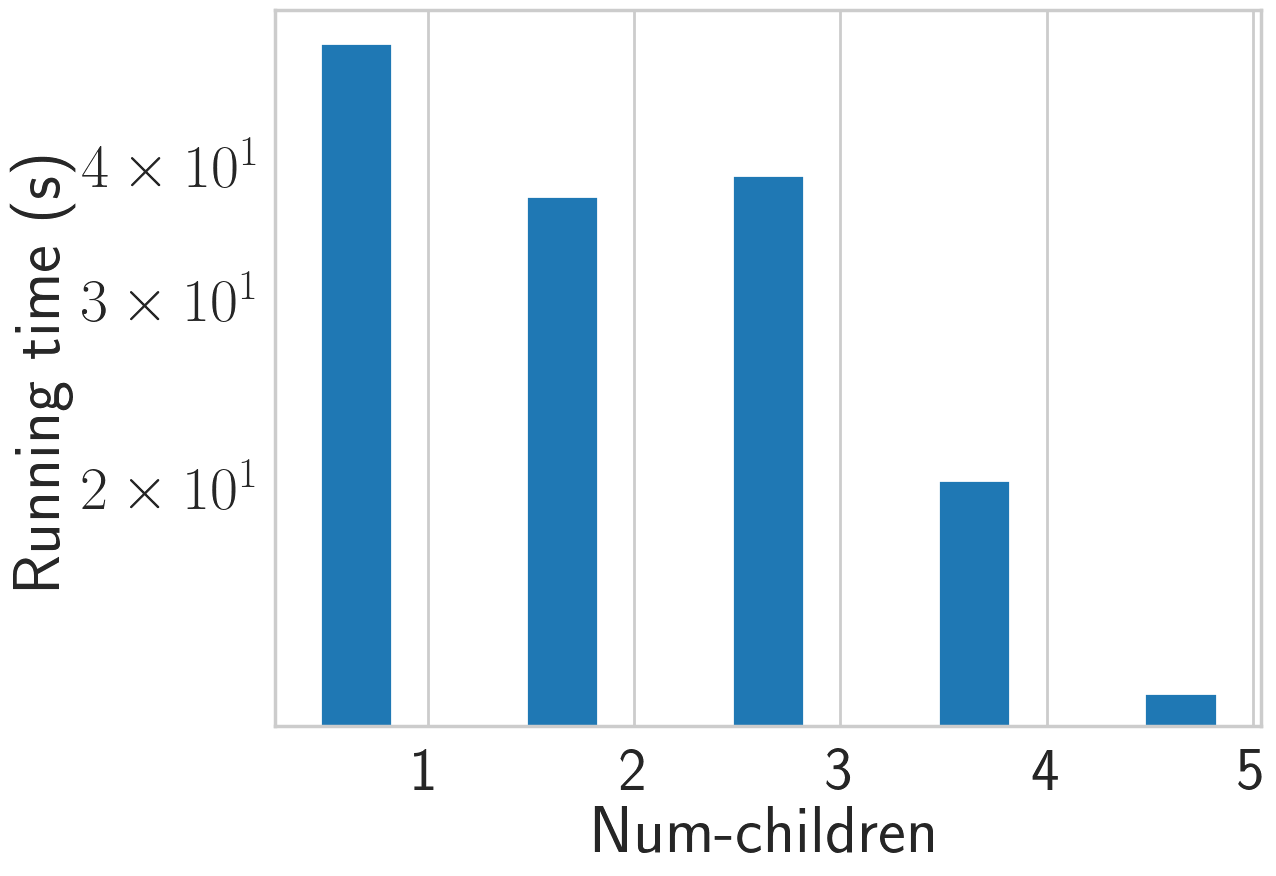
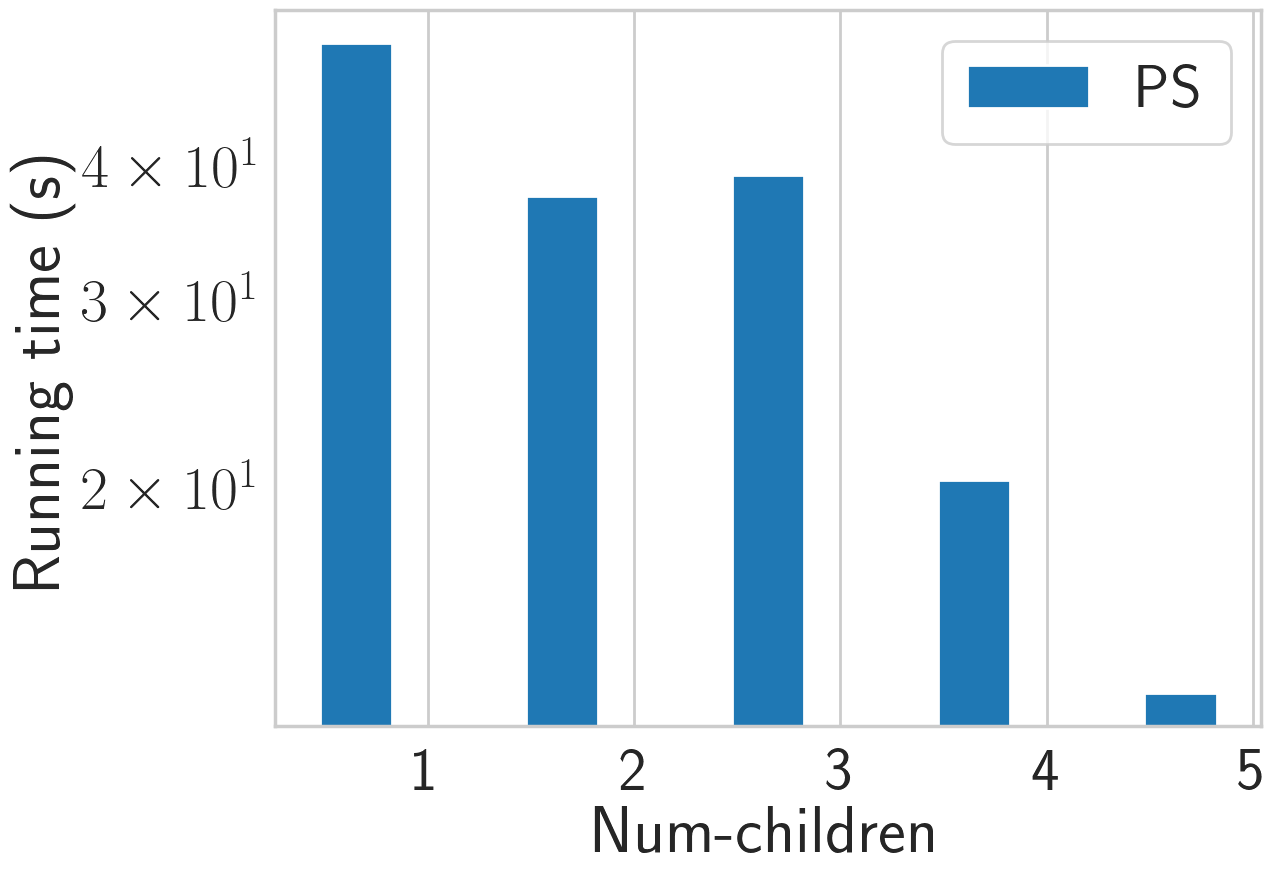
healthcare query change q1c3

Changed region(s): [[0.7335, 0.0308, 0.9475, 0.1233], [0.7335, 0.1541, 0.9475, 0.1849]]

diff --git a/Experiment/healthcare/query_change/Q1C3/fig.py b/Experiment/healthcare/query_change/Q1C3/fig.py
@@ -64,7 +64,7 @@ plt.xticks(index + bar_width, x_list)
 plt.xlabel('Num-children')
 plt.ylabel('Running time (s)')
 plt.yticks([1, 2, 3, 4, 5])
-# plt.legend(loc='best')
+plt.legend(loc='best')
 plt.yscale("log")
 plt.tight_layout()
 plt.savefig("healthcare_query_change_q1c3.png", bbox_inches='tight')
